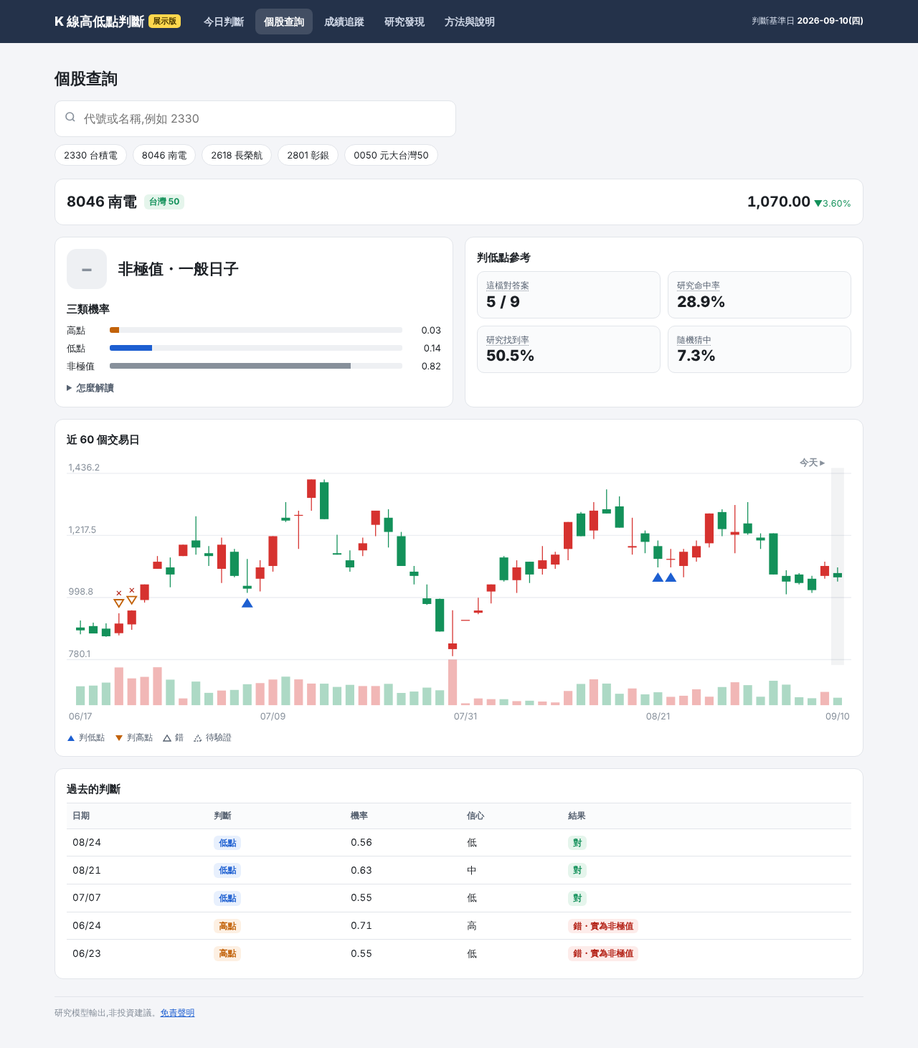
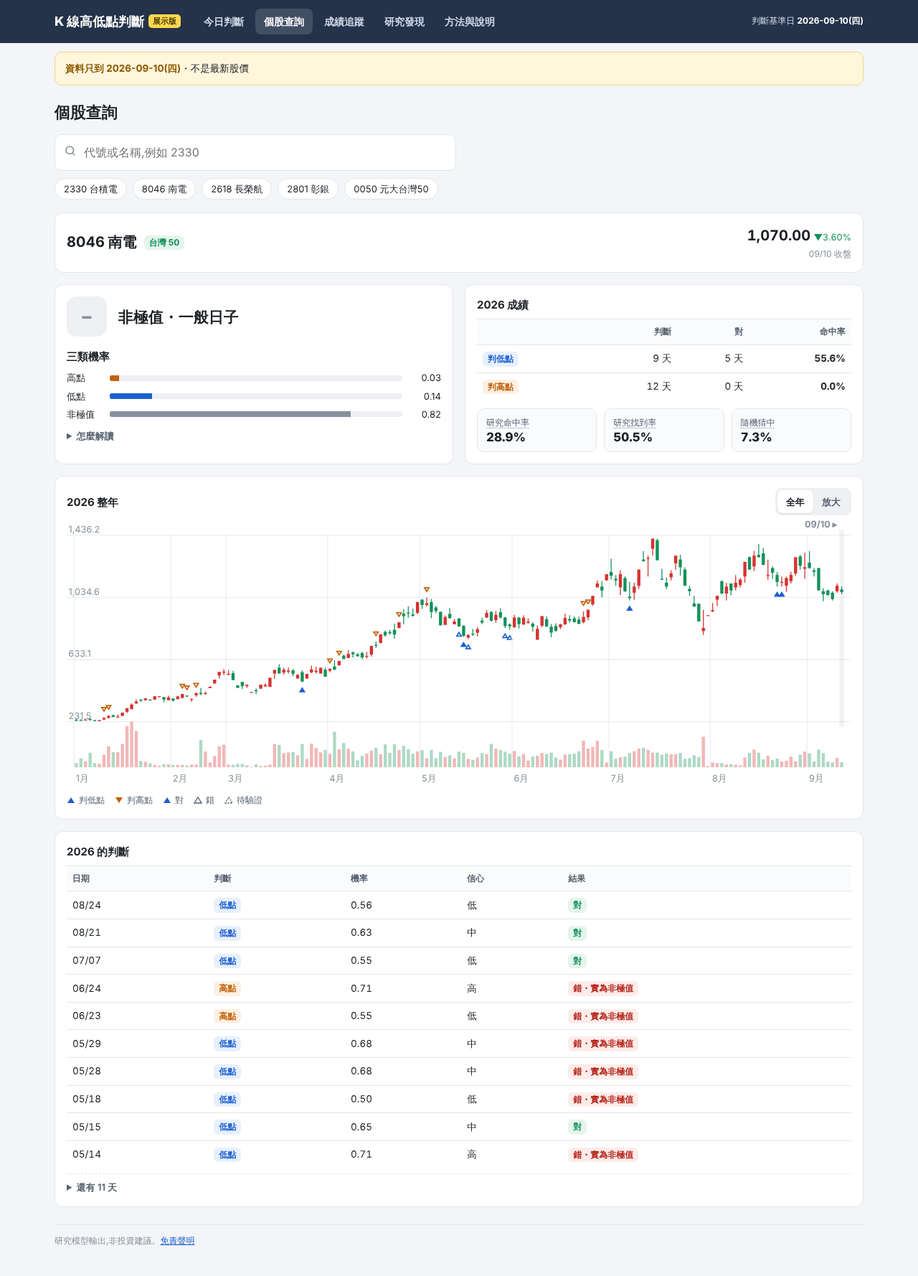
網頁系統:畫面改顯示實際成交價、個股頁改成今年整年
- 價格查證:網頁顯示的是 yfinance 還原價,最後一天(2026-09-10)和證交所收盤 247 / 247 檔完全相同,較早的日子被除權息往下調;
  另外查到 Yahoo 在 07/10 休市日、停牌期間補了量 0 的假 K 棒
- 畫面上的收盤、漲跌幅、K 線、量改用證交所官方日資料(common/cache/official,實際成交價,未還原),
  台灣 50 全部與其他共 247 檔;沒有官方資料的股票照舊用還原價,畫面標「還原價」。模型、判斷、對答案仍用還原價,不受影響
- 個股頁 K 線與判斷標記改成今年整年(2026-01-02 到判斷基準日),預設整年塞進畫面,「放大」後可左右捲動(打開時在最新一天)
- 個股頁加今年的對答案統計:判低點 / 判高點各判斷幾天、對幾天、命中率、待驗證天數;今年的判斷表先列 10 天,其餘收進展開
- 價格旁標資料日期(例 09/10 收盤);判斷基準日比今天舊超過 4 天時,頁面頂端提示「資料只到 …,不是最新股價」
- 新增 6 項測試(實際價顯示、休市日不出現、沒官方資料時用還原價、整年範圍、今年統計、模型輸入仍是還原價);網頁 56 項全過
- 重拍截圖

Claude-Session: https://claude.ai/code/session_01S1UqReMe4H9UamAy1a12RW

diff --git a/method_kline_peak/web/site/app.js b/method_kline_peak/web/site/app.js
@@ -131,33 +131,40 @@ function acKey(e) {
   if (e.key === 'ArrowDown' || e.key === 'ArrowUp') { ACSEL = (ACSEL + (e.key === 'ArrowDown' ? 1 : -1) + ACL.length) % ACL.length; [...el.children].forEach((d, i) => d.classList.toggle('sel', i === ACSEL)); e.preventDefault(); }
   if (e.key === 'Enter') go('stock-' + ACL[ACSEL][0]);
 }
+/* K 線:預設整年塞進畫面寬度;「放大」時每根 K 棒固定寬度、可左右捲動(打開時捲到最新一天)。 */
+let ZOOM = 'fit';
 function kchart(S) {
-  const M = MOBILE(), bars = S.bars.slice(M ? -30 : -60);
+  const M = MOBILE(), bars = S.bars || [];
   if (!bars.length) return '<div class="mutebox">沒有 K 線資料</div>';
   const sig = Object.fromEntries((S.signals || []).map(s => [s.date, s]));
-  const W = M ? 420 : 860, H = M ? 320 : 300, VH = 50, pad = 8, top = 22, bot = H - VH - 24;
+  const fitW = M ? 420 : 860, zoomed = ZOOM === 'zoom', W = zoomed ? Math.max(fitW, bars.length * (M ? 9 : 12) + 16) : fitW;
+  const H = M ? 320 : 300, VH = 50, pad = 8, top = 22, bot = H - VH - 24;
   const mx = Math.max(...bars.map(b => b[2])) * 1.015, mn = Math.min(...bars.map(b => b[3])) * 0.985, y = v => top + (mx - v) / (mx - mn) * (bot - top);
-  const bw = (W - pad * 2) / bars.length, vmax = Math.max(...bars.map(b => b[5])) || 1; let g = '';
+  const bw = (W - pad * 2) / bars.length, vmax = Math.max(...bars.map(b => b[5])) || 1, tw = Math.max(2.5, Math.min(5, bw * .45)); let g = '';
   for (let k = 0; k < 4; k++) { const v = mn + (mx - mn) * k / 3; g += `<line x1="0" x2="${W}" y1="${y(v)}" y2="${y(v)}" stroke="var(--grid)"/><text x="2" y="${y(v) - 3}" font-size="10" fill="var(--axis)">${fmt(v, 1)}</text>`; }
+  let lastMonth = '';
   bars.forEach((b, i) => {
     const [d, o, h, l, c, v] = b, x = pad + i * bw + bw / 2, col = c >= o ? 'var(--up)' : 'var(--down)';
+    if (d.slice(5, 7) !== lastMonth) {
+      lastMonth = d.slice(5, 7);
+      g += `<line x1="${x - bw / 2}" x2="${x - bw / 2}" y1="${top}" y2="${H - 24}" stroke="var(--grid)"/><text x="${x - bw / 2 + 2}" y="${H - 8}" font-size="10" fill="var(--axis)">${+lastMonth}月</text>`;
+    }
     g += `<line x1="${x}" x2="${x}" y1="${y(h)}" y2="${y(l)}" stroke="${col}"/><rect x="${x - bw * .34}" y="${y(Math.max(o, c))}" width="${bw * .68}" height="${Math.max(1, Math.abs(y(o) - y(c)))}" fill="${col}"/>`;
     g += `<rect x="${x - bw * .34}" y="${H - 24 - v / vmax * VH}" width="${bw * .68}" height="${v / vmax * VH}" fill="${col}" opacity=".35"/>`;
     const s = sig[d];
     if (s && s.pred && s.pred !== 'none') {
-      const isL = s.pred === 'low', c2 = isL ? 'var(--low)' : 'var(--high)', yy = isL ? y(l) + 11 : y(h) - 11;
+      const isL = s.pred === 'low', c2 = isL ? 'var(--low)' : 'var(--high)', yy = isL ? y(l) + tw + 6 : y(h) - tw - 6;
       const st = s.truth == null ? 'wait' : s.truth === s.pred ? 'ok' : 'bad';
-      const tri = isL ? `M${x - 5},${yy + 4} L${x + 5},${yy + 4} L${x},${yy - 4} Z` : `M${x - 5},${yy - 4} L${x + 5},${yy - 4} L${x},${yy + 4} Z`;
-      g += `<path d="${tri}" fill="${st === 'ok' ? c2 : 'var(--card)'}" stroke="${c2}" stroke-width="1.5" ${st === 'wait' ? 'stroke-dasharray="2 1.5"' : ''}><title>${d} 判${LBL[s.pred]}:${st === 'wait' ? '待驗證' : st === 'ok' ? '對' : '錯'}</title></path>`;
-      if (st === 'bad') g += `<text x="${x}" y="${isL ? yy + 16 : yy - 8}" font-size="9" fill="var(--bad)" text-anchor="middle">✕</text>`;
+      const tri = isL ? `M${x - tw},${yy + tw * .8} L${x + tw},${yy + tw * .8} L${x},${yy - tw * .8} Z` : `M${x - tw},${yy - tw * .8} L${x + tw},${yy - tw * .8} L${x},${yy + tw * .8} Z`;
+      g += `<path d="${tri}" fill="${st === 'ok' ? c2 : 'var(--card)'}" stroke="${c2}" stroke-width="1.3" ${st === 'wait' ? 'stroke-dasharray="2 1.5"' : ''}><title>${d} 判${LBL[s.pred]}:${st === 'wait' ? '待驗證' : st === 'ok' ? '對' : '錯'}</title></path>`;
     }
-    if (i === bars.length - 1) g += `<rect x="${x - bw / 2}" y="${top - 6}" width="${bw}" height="${bot - top + 12}" fill="var(--accent)" opacity=".06"/><text x="${x - bw}" y="${top - 9}" font-size="10" font-weight="700" fill="var(--axis)" text-anchor="end">今天 ▸</text>`;
+    if (i === bars.length - 1) g += `<rect x="${x - bw / 2}" y="${top - 6}" width="${bw}" height="${bot - top + 12}" fill="var(--accent)" opacity=".06"/><text x="${x - bw}" y="${top - 9}" font-size="10" font-weight="700" fill="var(--axis)" text-anchor="end">${md(d)} ▸</text>`;
   });
-  const ticks = M ? [0, 10, 20, bars.length - 1] : [0, 15, 30, 45, bars.length - 1];
-  ticks.filter(i => i < bars.length).forEach(i => g += `<text x="${pad + i * bw + bw / 2}" y="${H - 8}" font-size="10" fill="var(--axis)" text-anchor="middle">${md(bars[i][0])}</text>`);
-  return `<div class="chartwrap"${ttl('K 線為還原價,紅漲綠跌;三角形 = 過去的判斷,5 個交易日後對答案')}><svg viewBox="0 0 ${W} ${H}" width="100%" style="display:block">${g}</svg></div>
+  const t = `${S.price === 'actual' ? '實際成交價(證交所)' : '還原價(把除權息補回去)'},紅漲綠跌;三角形 = 這天的判斷,5 個交易日後對答案`;
+  const svg = `<svg viewBox="0 0 ${W} ${H}" ${zoomed ? `width="${W}" height="${H}"` : 'width="100%"'} style="display:block">${g}</svg>`;
+  return `<div class="${zoomed ? 'chartscroll' : 'chartwrap'}"${ttl(t)}>${svg}</div>
   <div class="legend"><span><svg width="12" height="10"><path d="M1,9 L11,9 L6,1Z" fill="var(--low)"/></svg>判低點</span><span><svg width="12" height="10"><path d="M1,1 L11,1 L6,9Z" fill="var(--high)"/></svg>判高點</span>
-  <span><svg width="12" height="10"><path d="M1,9 L11,9 L6,1Z" fill="var(--card)" stroke="var(--ink2)" stroke-width="1.4"/></svg>錯</span><span><svg width="12" height="10"><path d="M1,9 L11,9 L6,1Z" fill="var(--card)" stroke="var(--ink2)" stroke-width="1.4" stroke-dasharray="2 1.5"/></svg>待驗證</span></div>`;
+  <span><svg width="12" height="10"><path d="M1,9 L11,9 L6,1Z" fill="var(--low)"/></svg>對</span><span><svg width="12" height="10"><path d="M1,9 L11,9 L6,1Z" fill="var(--card)" stroke="var(--ink2)" stroke-width="1.4"/></svg>錯</span><span><svg width="12" height="10"><path d="M1,9 L11,9 L6,1Z" fill="var(--card)" stroke="var(--ink2)" stroke-width="1.4" stroke-dasharray="2 1.5"/></svg>待驗證</span></div>`;
 }
 function bar(label, v, color, txt) {
   return `<div class="cls"><span>${label}</span><div class="bar" style="margin:0;height:8px"><i style="width:${Math.max(0, Math.min(1, v)) * 100}%;background:${color}"></i></div><span class="right">${txt}</span></div>`;
@@ -202,7 +209,7 @@ async function pageStock(code) {
   if (S.status === 'lowvol') pre = `<div class="mutebox"${ttl('這類股票的「11 天最低」常常只差一兩檔,判斷沒有參考價值')}><b>低波動・判斷不適用</b>・漲跌中位數 ${fmt(S.move)}% &lt; ${D.meta.rules.min_move}%
    <details style="margin-top:6px"><summary style="cursor:pointer">看模型輸出</summary><div style="margin-top:6px">今天判${LBL[p]}${P.score != null ? `(機率 ${fmt(P.score)})` : ''}。</div></details></div>`;
   if (S.status === 'halted') pre = `<div class="badbox"${ttl('停牌、處置或資料未更新')}><b>${S.date} 無交易</b>・今天沒有判斷</div>`;
-  if (S.status === 'nodata') pre = `<div class="mutebox"><b>資料不足</b>・至少要 16 個交易日的 K 線</div>`;
+  if (S.status === 'nodata') pre = `<div class="mutebox"><b>資料不足</b>・${(S.bars || []).length ? '至少要 16 個交易日的 K 線' : '還沒有這檔的 K 線'}</div>`;
   const dim = S.status === 'lowvol' ? 'opacity:.45;filter:grayscale(1)' : '';
   const last = S.bars[S.bars.length - 1] || [];
   const hit = S.status !== 'pool' || p === 'none' ? null : trk(p).levels?.[P.level];
@@ -214,14 +221,21 @@ async function pageStock(code) {
     : `模型判斷今天是 <b>非極值</b>(一般日子)。三類機率裡「非極值」最高(${fmt(P.p_none)})。`;
   const R = (D.research?.classification || []).find(r => r.year === '2026') || {};
   const RS = '研究結果 TW200 2026 1–9 月';
-  const past = (S.signals || []).filter(x => x.pred !== 'none').slice().reverse().slice(0, 10);
-  const ls = S.low_stats;
+  const past = (S.signals || []).filter(x => x.pred !== 'none').slice().reverse();
+  const Y = S.year || {}, yr = Y.year || S.date.slice(0, 4);
+  const pastRow = x => `<tr><td>${md(x.date)}</td><td><span class="tag ${tagCls(x.pred)}">${LBL[x.pred]}</span></td><td>${fmt(x.score)}</td><td>${x.level || '—'}</td>
+     <td>${x.truth == null ? '<span class="tag t-wait">待驗證</span>' : x.truth === x.pred ? '<span class="tag t-ok">對</span>' : `<span class="tag t-bad">錯・實為${LBL[x.truth]}</span>`}</td></tr>`;
+  const pastTable = rows => `<div class="tblwrap"><table class="tbl"><tr><th>日期</th><th>判斷</th><th>機率</th><th>信心</th><th>結果</th></tr>${rows.map(pastRow).join('')}</table></div>`;
+  const yrow = k => { const r = Y[k] || {}, wait = (r.n || 0) - (r.graded || 0);
+    return `<tr><td><span class="tag ${tagCls(k)}">判${LBL[k]}</span></td><td>${r.n || 0} 天${wait ? ` <span class="wait"${ttl('還沒滿 5 個交易日,還沒有答案')}>+${wait} 待驗證</span>` : ''}</td><td>${r.graded ? `${r.hits} 天` : '—'}</td><td class="pctc">${pct(r.pct)}</td></tr>`; };
+  const pxTip = S.price === 'actual' ? '實際成交價(證交所官方資料)' : '還原價(把除權息補回去);這檔沒有證交所官方資料';
   const tile = (label, v, t) => `<div class="tile"${tip(t)}><div class="lbl">${label}</div><div class="kpi">${v}</div></div>`;
   const vtip = p === 'none' ? '' : `機率 ${fmt(P.score)}・信心 ${P.level}\n${S.status !== 'pool' ? `${(STATUS[S.status] || ['池外'])[0]}股票:命中率見上方` : lvTip(hit)}`;
   return `<h1 class="pt">個股查詢</h1>${searchBox()}
   <div class="stack">
   <div class="card"><div class="row"><h2 style="margin:0;font-size:20px">${code} ${esc(S.name)}</h2>${typeTag(S.status)}<div class="sp"></div>
-   <div class="right"${ttl(`${md(S.date)} 收盤(還原價)`)}><span class="px" style="font-size:20px">${fmt(t.close ?? last[4])}</span> ${chg(t.chg_pct)}</div></div></div>
+   <div class="right"${ttl(pxTip)}><span class="px" style="font-size:20px">${fmt(S.close ?? t.close ?? last[4])}</span> ${chg(S.chg_pct ?? t.chg_pct)}
+    <div class="asof">${S.close_date ? md(S.close_date) : md(S.date)} 收盤${S.price === 'adj' ? ' <span class="tag t-none">還原價</span>' : ''}</div></div></div></div>
   ${pre}
   ${t.stack ? `<div class="grid2" style="${dim}">
    <div class="card"><div class="verdict"><div class="vicon" style="background:${p === 'low' ? 'var(--low-bg)' : p === 'high' ? 'var(--high-bg)' : 'var(--mute-bg)'};color:${p === 'low' ? 'var(--low)' : p === 'high' ? 'var(--high)' : 'var(--ink3)'}">${icon}</div>
@@ -231,17 +245,16 @@ async function pageStock(code) {
      <h3 style="margin-top:16px"${ttl('三類機率加起來是 1,最大的那類就是判斷。研究顯示只挑機率高的,命中率只升一點點,真的轉折點卻會漏掉很多,所以機率只當參考。')}>三類機率</h3>
      ${bar('高點', P.p_high, 'var(--high)', fmt(P.p_high))}${bar('低點', P.p_low, 'var(--low)', fmt(P.p_low))}${bar('非極值', P.p_none, 'var(--ink3)', fmt(P.p_none))}
      ${more(sug, '怎麼解讀')}</div>
-   <div class="card"><h3>判低點參考</h3><div class="tiles">
-     ${tile('這檔對答案', ls?.n ? `${ls.hits} / ${ls.n}` : '—', ls?.n ? `這檔判低點對答案(回放 + 實際追蹤):${pct(ls.pct)}` : '')}
+   <div class="card"><h3${ttl(`這檔 ${yr} 年每天的判斷,5 個交易日後對答案(回放 + 實際追蹤)`)}>${yr} 成績</h3>
+     <table class="tbl ytable"><tr><th></th><th>判斷</th><th>對</th><th>命中率</th></tr>${yrow('low')}${yrow('high')}</table>
+     <div class="tiles t3">
      ${tile('研究命中率', pct(R.prec_low), `判低點命中率・${RS}`)}
      ${tile('研究找到率', pct(R.rec_low), `真低點找到率・${RS}`)}
      ${tile('隨機猜中', pct(R.base_low), `隨便挑一天剛好是低點・${RS}`)}</div></div>
   </div>` : ''}
   ${activeCard(S)}
-  <div class="card" style="${dim}"><h3>近 ${MOBILE() ? 30 : 60} 個交易日</h3>${kchart(S)}</div>
-  <div class="card" style="${dim}"><h3>過去的判斷</h3>${past.length ? `<div class="tblwrap"><table class="tbl"><tr><th>日期</th><th>判斷</th><th>機率</th><th>信心</th><th>結果</th></tr>
-    ${past.map(x => `<tr><td>${md(x.date)}</td><td><span class="tag ${tagCls(x.pred)}">${LBL[x.pred]}</span></td><td>${fmt(x.score)}</td><td>${x.level || '—'}</td>
-     <td>${x.truth == null ? '<span class="tag t-wait">待驗證</span>' : x.truth === x.pred ? '<span class="tag t-ok">對</span>' : `<span class="tag t-bad">錯・實為${LBL[x.truth]}</span>`}</td></tr>`).join('')}</table></div>` : '<div class="empty">近 60 天沒有判斷</div>'}</div>
+  <div class="card" style="${dim}"><div class="row"><h3 style="margin:0">${(S.bars || [])[0]?.[0]?.slice(0, 4) === yr ? yr + ' 整年' : 'K 線'}</h3><div class="sp"></div>${(S.bars || []).length ? seg(ZOOM, [['fit', '全年'], ['zoom', '放大']], 'ZOOM') : ''}</div>${kchart(S)}</div>
+  <div class="card" style="${dim}"><h3>${yr} 的判斷</h3>${past.length ? pastTable(past.slice(0, 10)) + (past.length > 10 ? `<details class="more"><summary>還有 ${past.length - 10} 天</summary>${pastTable(past.slice(10))}</details>` : '') : '<div class="empty">今年沒有判斷</div>'}</div>
   </div>${disc()}`;
 }
 
@@ -369,6 +382,8 @@ function header() {
   if (c.online === false && M.source !== 'replay') t.push(`這次批次沒有連網,K 線只到 ${M.asof}`);
   document.getElementById('hmeta').innerHTML = `<span${ttl(t.join('\n'))}>判斷基準日 <b>${dlabel(M.asof)}</b></span>${M.source === 'replay' ? ` <span class="tag t-replay"${ttl('回放:上線前用同一個模型逐日產生的判斷')}>回放</span>` : ''}`;
   const b = [];
+  const age = (Date.now() - new Date(`${M.asof}T14:30:00+08:00`).getTime()) / 864e5;
+  if (age > 4) b.push(`<div class="warnbox"${ttl('網頁顯示的是判斷基準日收盤後的資料;之後的股價還沒更新')}><b>資料只到 ${dlabel(M.asof)}</b>・不是最新股價</div>`);
   if (c.stale) b.push(`<div class="badbox"${ttl('資料來源晚到時批次會在稍後補跑')}><b>資料還沒更新</b>・顯示 ${M.asof} 的判斷</div>`);
   if ((c.missing_pool || []).length) b.push(`<div class="warnbox"${ttl('這幾檔今天沒有判斷')}><b>${c.missing_pool.length} 檔缺 ${md(M.asof)} 資料</b>・${c.missing_pool.slice(0, 8).join('、')}${c.missing_pool.length > 8 ? '…' : ''}</div>`);
   document.getElementById('banner').innerHTML = b.join('');
@@ -383,6 +398,7 @@ async function render() {
     app.innerHTML = p === 'stock' ? (arg ? await pageStock(arg) : pageSearch()) : p === 'track' ? pageTrack() : p === 'findings' ? pageFindings()
       : p === 'about' ? pageAbout() : pageToday();
   } catch (e) { app.innerHTML = `<div class="badbox">畫面產生失敗:${esc(e.message)}</div>`; console.error(e); }
+  app.querySelectorAll('.chartscroll').forEach(e => { e.scrollLeft = e.scrollWidth; });
   if (p === 'stock' && arg) Q = '';
 }
 async function boot() {

diff --git a/method_kline_peak/web/site/style.css b/method_kline_peak/web/site/style.css
@@ -231,3 +231,12 @@ h1.pt{margin:0 0 14px}
 @media (prefers-reduced-motion: reduce){*{transition:none!important;animation:none!important}}
 .lvtable td:first-child{white-space:normal}
 .legendtags .tag:nth-child(n+3)[data-tip]:hover::after,.legendtags .tag:nth-child(n+3)[data-tip]:focus::after{left:auto;right:0}
+.asof{font-size:12px;color:var(--ink3);margin-top:1px}
+.chartscroll{width:100%;overflow-x:auto;-webkit-overflow-scrolling:touch;overscroll-behavior-x:contain}
+.ytable td,.ytable th{text-align:right}
+.ytable td:first-child,.ytable th:first-child{text-align:left}
+.ytable .pctc{font-weight:700}
+.ytable .wait{font-size:11.5px;color:var(--ink3)}
+.tiles.t3{grid-template-columns:repeat(3,1fr);margin-top:12px}
+.tiles.t3 .kpi{font-size:17px}
+@media (max-width:760px){.tiles.t3 .tile{padding:8px 9px}.tiles.t3 .lbl{font-size:11px}}

diff --git a/method_kline_peak/web/system/publish.py b/method_kline_peak/web/system/publish.py
@@ -6,7 +6,10 @@
   track.json       成績追蹤:每日前 3 檔對答案、命中率、各信心等級命中率、池外命中率
   index.json       自動完成用的股票清單(代號、名稱、分類、市場別)
   research.json    研究結果:TW200 Stacking 2024–2026 的分類成績(直接讀 results/,不重算)
-  stocks/<代號前兩碼>.json  個股(每檔一筆):今天的判斷、還沒破底 / 沒創高的訊號、最近 60 根 K 線、過去的判斷與答案
+  stocks/<代號前兩碼>.json  個股(每檔一筆):今天的判斷、還沒破底 / 沒創高的訊號、今年整年的 K 線、今年的判斷與答案、今年的對答案統計
+
+畫面上的價格(收盤、漲跌幅、K 線、量)用證交所官方日資料的實際成交價(未還原);沒有官方資料的股票才用還原價並標示。
+模型、判斷、對答案一律用 yfinance 還原價(和研究相同),顯示用的價格不影響任何判斷。
   findings.json    研究發現頁:方向性結論(找得到轉折區、高低點不判反、命中率約三成)
 """
 import json
@@ -197,6 +200,69 @@ def shard_of(code):
     return code[:2]
 
 
+# ───────────────────────── 顯示用的價格 ─────────────────────────
+def official_bars(code):
+    """證交所官方日資料(實際成交價,未還原;量 = 成交股數)。沒有這檔就回傳 None。只用來顯示。"""
+    p = os.path.join(C.OFFICIAL, f"{code}.parquet")
+    if not os.path.exists(p):
+        return None
+    o = pd.read_parquet(p)
+    o["date"] = pd.to_datetime(o["date"])
+    o = o.set_index("date").sort_index()
+    o = o[~o.index.duplicated(keep="last")]
+    return o[(o["close"] > 0) & (o["open"] > 0)]
+
+
+def chart_start(index, asof):
+    """K 線圖的起點:判斷基準日那年的第一個交易日;那年還不到 CHART_BARS 根時,往前補到 CHART_BARS 根。"""
+    idx = index[index <= asof]
+    ystart = pd.Timestamp(f"{asof.year}-01-01")
+    if not len(idx):
+        return ystart
+    return min(ystart, idx[-min(C.CHART_BARS, len(idx))])
+
+
+def display_bars(code, df, asof):
+    """畫面用的 K 線,從 chart_start 到判斷基準日。回傳 dict:bars、price('actual' 實際成交價 / 'adj' 還原價)、close、chg_pct、close_date。
+    有官方資料、而且官方資料涵蓋整段(起點以前就有、最後一天不早於還原價最後一個有成交的日子)才用實際成交價;
+    官方沒有的日子(休市日 Yahoo 補的量 0 K 棒、停牌期間)不會出現在實際成交價的 K 線裡。"""
+    if df is None:
+        return {"bars": [], "price": "adj", "close": None, "chg_pct": None, "close_date": None}
+    adj = clean(df.loc[:asof])
+    if not len(adj):
+        return {"bars": [], "price": "adj", "close": None, "chg_pct": None, "close_date": None}
+    start = chart_start(adj.index, asof)
+    traded = adj[adj["volume"] > 0]
+    off = official_bars(code)
+    if off is not None and len(off) and off.index[0] <= start and len(traded) and off.loc[:asof].index[-1] >= traded.index[-1]:
+        o = off.loc[start:asof]
+        bars = [[str(d.date()), round(float(a), 2), round(float(h), 2), round(float(lo), 2), round(float(c), 2), int(v)]
+                for d, a, h, lo, c, v in zip(o.index, o["open"], o["high"], o["low"], o["close"], o["capacity"])]
+        last = o.iloc[-1]
+        ch = last.get("change")
+        chg = round(float(ch) / (float(last["close"]) - float(ch)) * 100, 3) if ch == ch and ch is not None and last["close"] != ch else None
+        return {"bars": bars, "price": "actual", "close": float(last["close"]), "chg_pct": chg, "close_date": str(o.index[-1].date())}
+    a = adj.loc[start:]
+    bars = [[str(d.date()), round(o, 2), round(h, 2), round(lo, 2), round(c, 2), int(v)]
+            for d, o, h, lo, c, v in zip(a.index, a.open, a.high, a.low, a.close, a.volume)]
+    prev = a["close"].shift(1).iloc[-1]
+    chg = round((a["close"].iloc[-1] / prev - 1) * 100, 3) if prev == prev and prev else None
+    return {"bars": bars, "price": "adj", "close": round(float(a["close"].iloc[-1]), 2), "chg_pct": chg, "close_date": str(a.index[-1].date())}
+
+
+def year_stats(g, year):
+    """一檔股票 year 年的判低點 / 判高點:判斷天數、已對答案天數、對幾天、命中率。"""
+    out = {"year": year}
+    y = g[g.date.str.startswith(year)] if g is not None else None
+    for kind in KINDS:
+        s = y[y.stack_pred == kind] if y is not None else []
+        gr = s[s.truth.notna()] if len(s) else []
+        hits = int((gr.truth == kind).sum()) if len(gr) else 0
+        out[kind] = {"n": int(len(s)), "graded": int(len(gr)), "hits": hits,
+                     "pct": round(hits / len(gr) * 100, 1) if len(gr) else None}
+    return out
+
+
 # ───────────────────────── 主程式 ─────────────────────────
 def publish(data, cal, check, log=print):
     t0 = time.time()
@@ -219,6 +285,8 @@ def publish(data, cal, check, log=print):
     recent = sorted(tab.date.unique())[-40:]
     rt = tab[tab.date.isin(recent)]
     preds_by = {c: g.assign(date=pd.to_datetime(g.date)).set_index("date") for c, g in rt.groupby("code")}
+    disp = {code: display_bars(code, data.get(U.ticker_of(code)), asof)
+            for code, r in rows.items() if r["status"] != U.NOSUP}
     closes_by, active = {}, {}
     for code, r in rows.items():
         df = data.get(U.ticker_of(code))
@@ -237,14 +305,16 @@ def publish(data, cal, check, log=print):
             if x is None or rows[code]["status"] != U.POOL:
                 continue
             r = rows[code]
-            items.append({"code": code, "name": U.name_of(code), "close": r.get("close"), "chg_pct": r.get("chg_pct"),
+            dp = disp.get(code) or {}
+            items.append({"code": code, "name": U.name_of(code), "close": dp.get("close", r.get("close")), "chg_pct": dp.get("chg_pct", r.get("chg_pct")),
                           "score": x["score"], "level": x["level"],
                           "level_hit": tr["kinds"].get(kind, {}).get("levels", {}).get(x["level"]),
                           "date": x["date"], "days": x["days"], "run": x["run"], "group": x["group"]})
         items.sort(key=lambda x: (x["days"], -(x["score"] if x["score"] is not None else -1e9)))
         for it in items:
-            if it["code"] in closes_by:
-                it["spark"] = [round(float(v), 2) for v in closes_by[it["code"]].tail(20)]
+            bars = (disp.get(it["code"]) or {}).get("bars") or []
+            if bars:
+                it["spark"] = [b[4] for b in bars[-20:]]                      # 走勢小圖:實際成交價(沒有官方資料才用還原價)
         today["lists"][kind] = items
     today["n_pool"] = sum(1 for r in latest["rows"] if r["status"] == U.POOL)
     _w(os.path.join(out, "today.json"), _clean_nan(today))
@@ -252,28 +322,24 @@ def publish(data, cal, check, log=print):
     # 個股:依代號前兩碼分成幾十個檔(Artifact 一次最多發布 255 個檔案)
     hist = tab[tab.stack_pred.isin(KINDS)]
     hist_by = {c: g for c, g in hist.groupby("code")}
+    year = str(asof.year)
     shards = {}
     for code, r in rows.items():
         if r["status"] in (U.NOSUP,):
             continue
-        df = data.get(U.ticker_of(code))
-        bars = []
-        if df is not None:
-            cdf = clean(df.loc[:asof]).tail(C.CHART_BARS)
-            bars = [[str(d.date()), round(o, 2), round(h, 2), round(lo, 2), round(c, 2), int(v)]
-                    for d, o, h, lo, c, v in zip(cdf.index, cdf.open, cdf.high, cdf.low, cdf.close, cdf.volume)]
+        dp = disp[code]
         g = hist_by.get(code)
-        sig, stats = [], None
+        sig = []
         if g is not None:
-            first = bars[0][0] if bars else latest["date"]
+            first = dp["bars"][0][0] if dp["bars"] else latest["date"]
             for _, s in g[g.date >= first].iterrows():
                 sig.append({"date": s.date, "pred": s.stack_pred, "score": s.stack_score, "level": s.stack_level,
                             "truth": s.truth, "source": s.source})
-            gm = g[(g.stack_pred == "low") & g.truth.notna()]
-            stats = _rate((gm.truth == "low").sum(), len(gm))
         shards.setdefault(shard_of(code), {})[code] = _clean_nan({
             "code": code, "name": U.name_of(code), "status": r["status"], "move": r.get("move"), "date": latest["date"],
-            "today": _public_row(r), "active": active.get(code, {}), "bars": bars, "signals": sig[-40:], "low_stats": stats})
+            "today": _public_row(r), "active": active.get(code, {}), "price": dp["price"], "close": dp["close"],
+            "chg_pct": dp["chg_pct"], "close_date": dp["close_date"], "bars": dp["bars"], "signals": sig,
+            "year": year_stats(g, year)})
     for k, v in shards.items():
         _w(os.path.join(out, "stocks", f"{k}.json"), v)
 

diff --git a/method_kline_peak/web/tests/test_display.py b/method_kline_peak/web/tests/test_display.py
@@ -1,0 +1,79 @@
+"""畫面用的價格:實際成交價(證交所官方資料)只用來顯示,模型與判斷一律用還原價;個股 K 線是今年整年;今年的對答案統計。"""
+import json
+import os
+
+import pandas as pd
+import pytest
+
+from system import config as C, publish as PB
+from test_system import DATE, ran_daily  # noqa: F401  (共用每日批次的 fixture)
+
+ASOF = pd.Timestamp("2026-09-10")
+
+
+def _official(code):
+    o = pd.read_parquet(os.path.join(C.OFFICIAL, f"{code}.parquet"))
+    o["date"] = pd.to_datetime(o["date"])
+    return o.set_index("date").sort_index()
+
+
+def test_display_uses_actual_price_not_adjusted(real_store):
+    """Given 中華電(2412)2026-07-09 除息,還原價把之前的價格往下調 / When 產生個股頁的 K 線 / Then 用證交所的實際成交價:
+    2026-01-02 收盤 132.00(還原價是 127.08);最後一天兩者相同 139.5;漲跌幅用證交所的漲跌價差"""
+    df = real_store.load("2412.TW")
+    d = PB.display_bars("2412", df, ASOF)
+    bars = {b[0]: b for b in d["bars"]}
+    assert d["price"] == "actual" and d["close_date"] == "2026-09-10"
+    assert bars["2026-01-02"][4] == 132.0 and round(df.loc["2026-01-02", "close"], 2) == pytest.approx(127.08, abs=0.01)
+    assert d["close"] == 139.5 == round(df.loc[ASOF, "close"], 2)
+    off = _official("2412").loc[ASOF]
+    assert d["chg_pct"] == pytest.approx(off["change"] / (off["close"] - off["change"]) * 100, abs=1e-3)
+
+
+def test_display_drops_days_without_trading(real_store):
+    """Given 2026-07-10 休市,Yahoo 補了一根量 0 的 K 棒 / When 產生台積電的實際成交價 K 線 / Then 07-10 不出現、07-09 和 07-13 都在;
+    K 線的日期全部是證交所有交易的日子"""
+    df = real_store.load("2330.TW")
+    assert df.loc["2026-07-10", "volume"] == 0
+    dates = [b[0] for b in PB.display_bars("2330", df, ASOF)["bars"]]
+    assert "2026-07-10" not in dates and {"2026-07-09", "2026-07-13"} <= set(dates)
+    assert set(dates) <= set(str(d.date()) for d in _official("2330").index)
+
+
+def test_display_falls_back_to_adjusted_without_official(real_store, monkeypatch, tmp_path):
+    """Given 一檔沒有證交所官方資料的股票 / When 產生 K 線 / Then 用還原價並標 price = adj(畫面會標「還原價」)"""
+    monkeypatch.setattr(C, "OFFICIAL", str(tmp_path))
+    df = real_store.load("2330.TW")
+    d = PB.display_bars("2330", df, ASOF)
+    assert d["price"] == "adj" and d["bars"][0][0] == "2026-01-02" and d["bars"][-1][4] == round(df.loc[ASOF, "close"], 2)
+
+
+def test_chart_is_whole_year_with_minimum_bars():
+    """Given 交易日曆 / When 決定 K 線起點 / Then 6 月看的是 1 月第一個交易日起整年;1 月初今年還不到 60 根,往前補到 60 根"""
+    idx = pd.bdate_range("2025-06-02", "2026-09-10")
+    assert PB.chart_start(idx, pd.Timestamp("2026-06-15")) == pd.Timestamp("2026-01-01")
+    start = PB.chart_start(idx, pd.Timestamp("2026-01-09"))
+    assert len(idx[(idx >= start) & (idx <= pd.Timestamp("2026-01-09"))]) == C.CHART_BARS
+
+
+def test_year_stats_counts_days_hits_and_pending():
+    """Given 一檔今年判低點 4 天(3 天已對答案、其中 2 天對、1 天待驗證)、判高點 1 天(錯)、去年判低點 1 天 /
+    When 算今年的對答案統計 / Then 判低點 4 天、已對 3 天、對 2 天、命中 66.7%;判高點 1 天、對 0 天;去年的不算"""
+    g = pd.DataFrame([("2026-02-02", "low", "low"), ("2026-02-03", "low", "none"), ("2026-03-02", "low", "low"),
+                      ("2026-09-10", "low", None), ("2026-04-01", "high", "none"), ("2025-12-30", "low", "low")],
+                     columns=["date", "stack_pred", "truth"])
+    y = PB.year_stats(g, "2026")
+    assert y["low"] == {"n": 4, "graded": 3, "hits": 2, "pct": 66.7}
+    assert y["high"] == {"n": 1, "graded": 1, "hits": 0, "pct": 0.0}
+
+
+def test_model_inputs_stay_adjusted(ran_daily, real_store):
+    """Given 每日批次產生的存檔與網頁資料 / When 比對同一天的判斷存檔和個股頁 / Then 判斷存檔(模型用的)收盤是還原價、沒有被改;
+    個股頁另外附實際成交價。中華電 2026-06-15(除息前):存檔收盤 = 還原價,個股頁收盤 = 證交所收盤,兩者不同"""
+    from system import store as ST
+    row = next(r for r in ST.read_day(DATE)["rows"] if r["code"] == "2412")
+    with open(os.path.join(C.SITE_DATA, "stocks", "24.json"), encoding="utf-8") as f:
+        s = json.load(f)["2412"]
+    assert s["price"] == "actual" and s["close"] == _official("2412").loc[DATE, "close"]
+    assert row["close"] == pytest.approx(real_store.load("2412.TW").loc[DATE, "close"], abs=0.01)
+    assert row["close"] < s["close"]

diff --git a/method_kline_peak/web/tests/test_system.py b/method_kline_peak/web/tests/test_system.py
@@ -109,7 +109,7 @@ def test_today_lists_only_recommend_pool_sorted(ran_daily):
 
 def test_stock_files_and_index(ran_daily):
     """Given 每日批次產生的網頁資料 / When 檢查個股檔(依代號前兩碼分檔)與自動完成清單 / Then 台灣 50、池外、低波動股都有資料並標好分類;
-    個股資料只有 Stacking(沒有主軸欄位);ETF 0050 清單裡標不支援並附原因;分檔數量不超過 Artifact 一次發布的上限"""
+    K 線是今年整年(第一個交易日到判斷基準日),附今年的對答案統計;個股資料只有 Stacking(沒有主軸欄位);ETF 0050 清單裡標不支援並附原因;分檔數量不超過 Artifact 一次發布的上限"""
     out = C.SITE_DATA
 
     def shard(code):
@@ -117,7 +117,8 @@ def test_stock_files_and_index(ran_daily):
             return json.load(f)
     for code, st in (("2330", U.POOL), ("2412", U.POOL), ("2618", U.OUT), ("2801", U.LOWVOL)):
         s = shard(code)[code]
-        assert s["status"] == st and len(s["bars"]) == C.CHART_BARS and s["bars"][-1][0] == str(DATE.date())
+        assert s["status"] == st and s["bars"][0][0] == "2026-01-02" and s["bars"][-1][0] == str(DATE.date())   # 今年整年
+        assert set(s["year"]) == {"year", "low", "high"} and s["year"]["year"] == "2026"
         assert "main" not in s["today"] and all("main" not in x for x in s["signals"])
     assert len(os.listdir(os.path.join(out, "stocks"))) <= 100
     with open(os.path.join(out, "index.json"), encoding="utf-8") as f:
